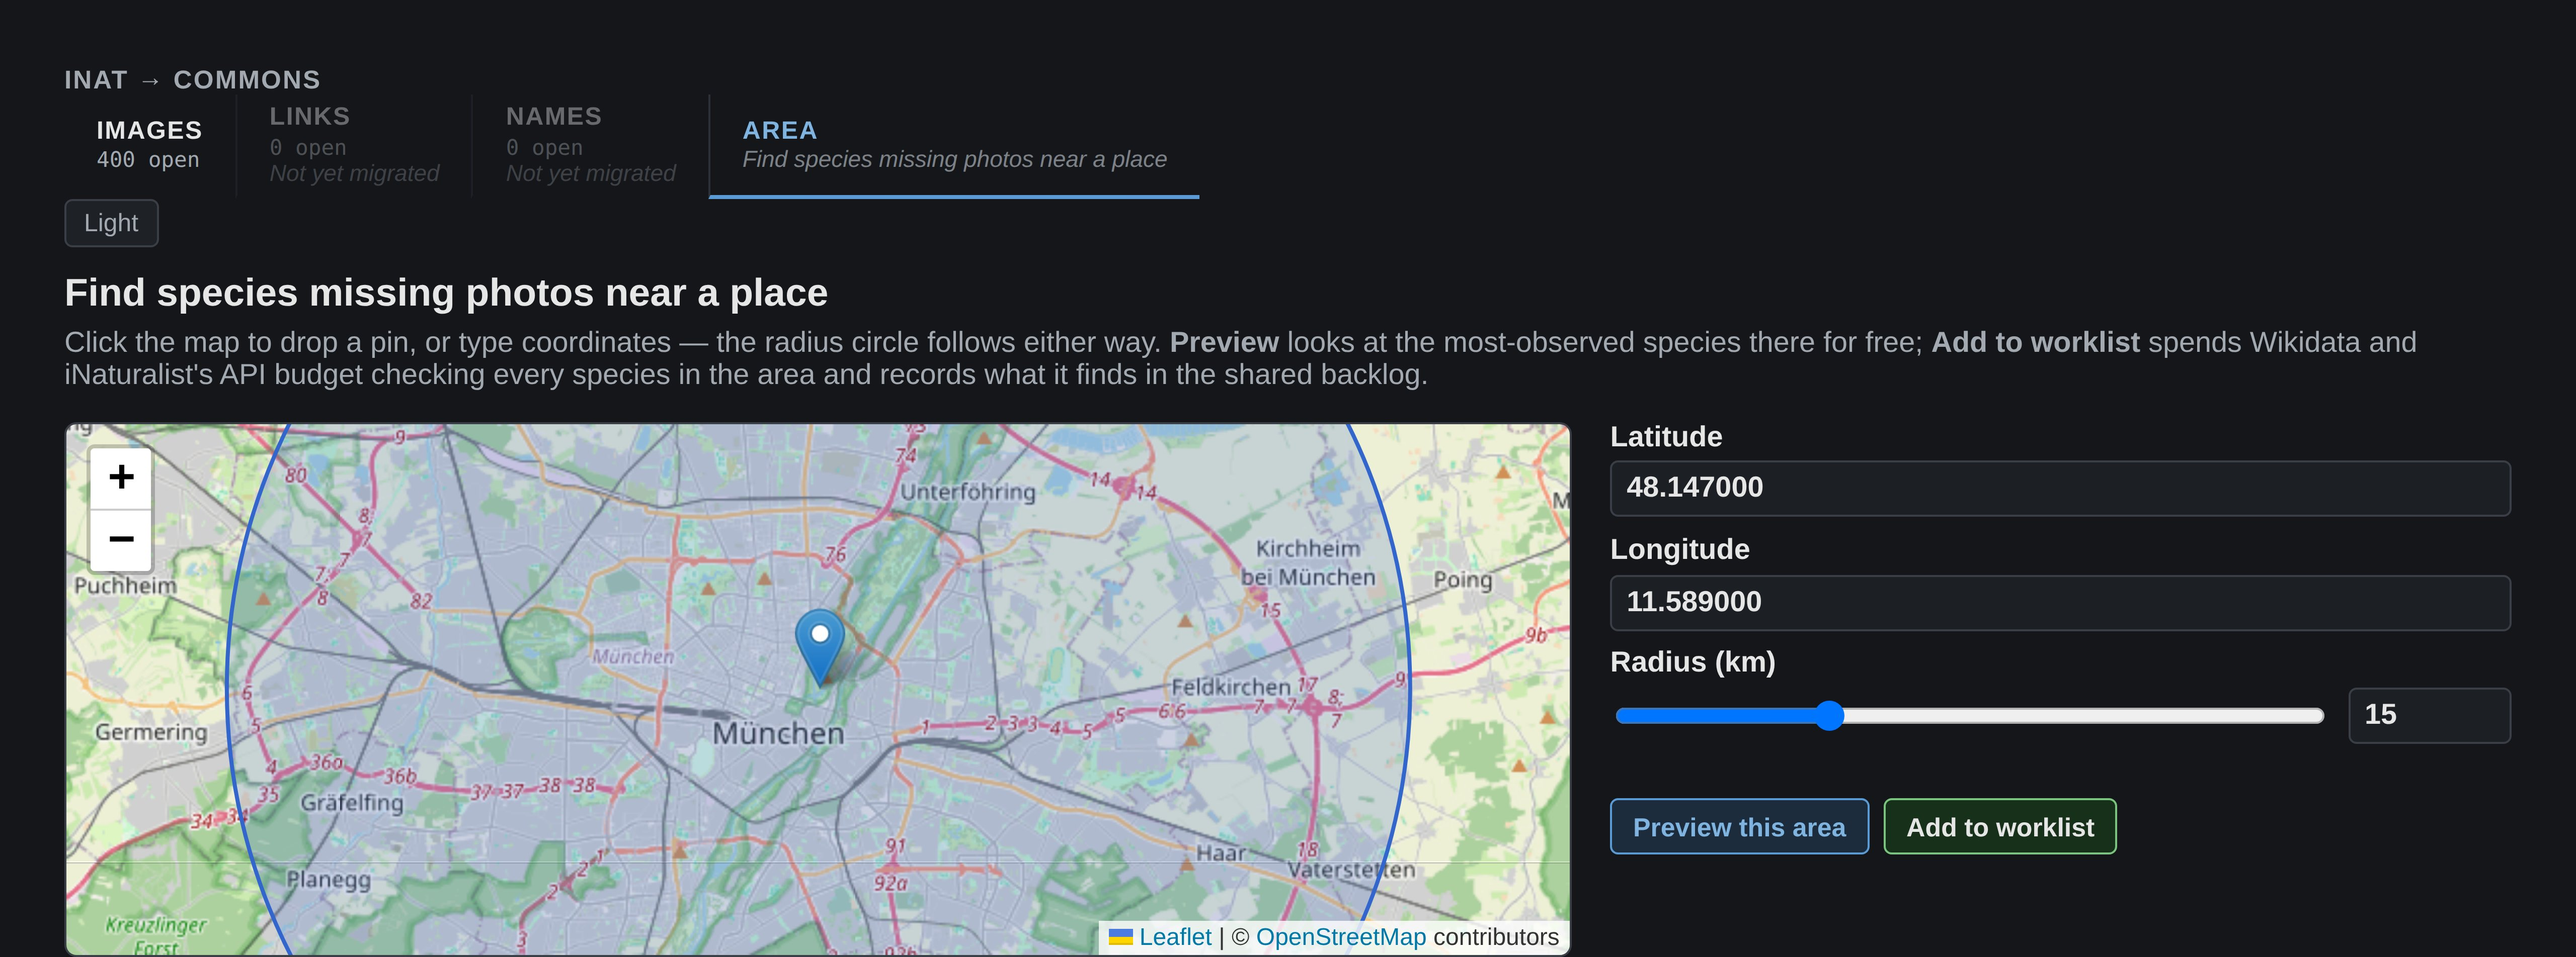
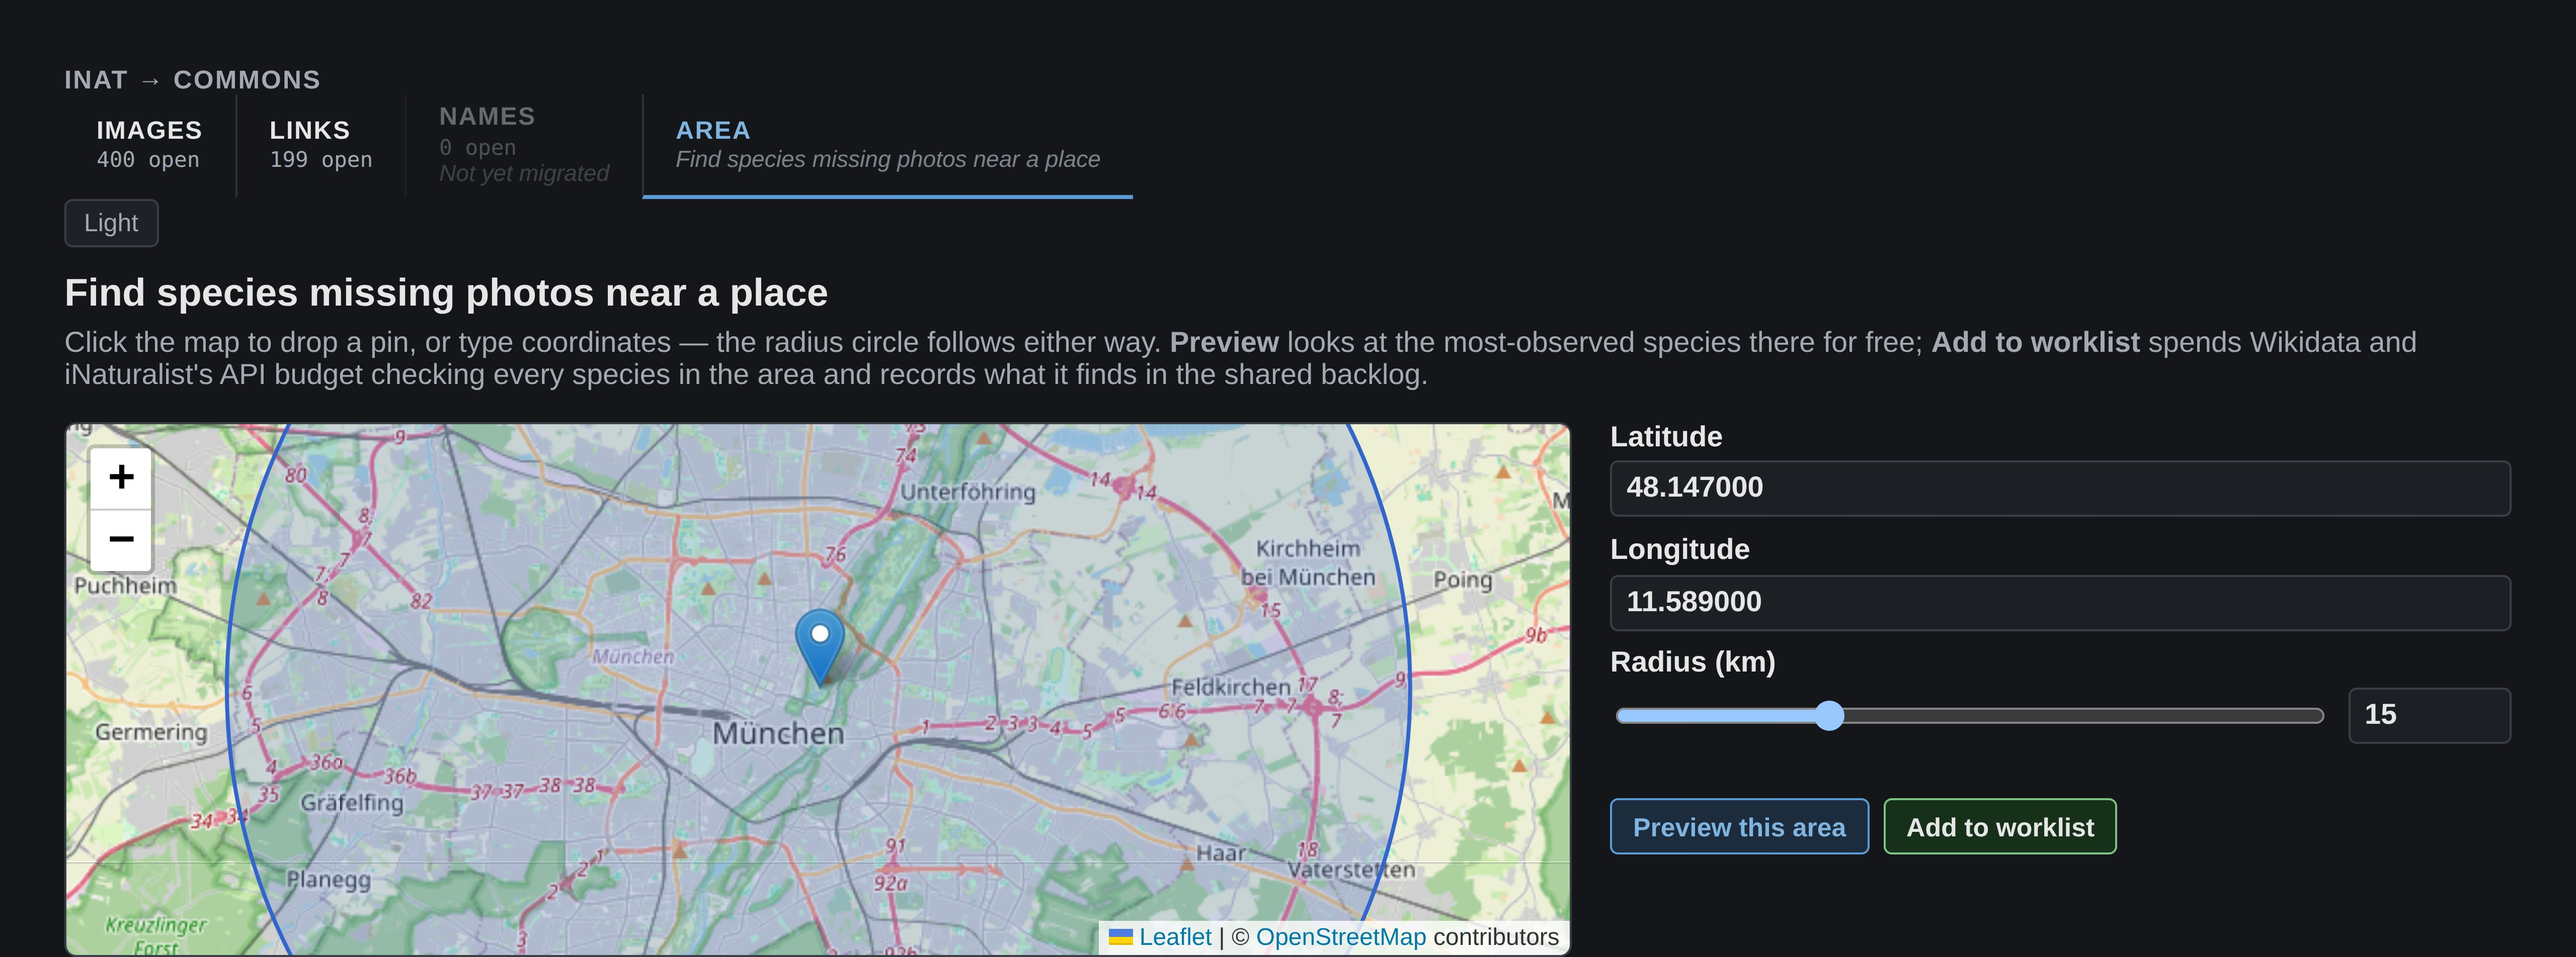
docs: regenerate screenshots for links.html, add a links.png target
tools/screenshots.mjs gains a links.png target and a `top` option
alongside the existing `crop` (bottom): the review section sits below
however many worklist rows the real backlog has, and the worklist half
already looks like worklist.png's, so the shot skips straight to what's
new rather than capturing every row above it. Needed captureBeyondViewport
on the screenshot call, since content below the emulated viewport isn't
laid out for capture without it.

Ran `node checkLinks.js --limit 200` for real against the production
data/findings.db first (with Livia's go-ahead) — the feature's first real
use, and what gives links.png genuine content: 199 open, 1 ambiguous
(Grania, an annelid genus vs. a red algae genus sharing the name), 0
conflicts. worklist.png/search.png/area.jpg/gallery.jpg regenerated too,
now showing the Links nav tile's real open count.

Changed region(s): [[0.0938, 0.093, 0.4688, 0.2169], [0.625, 0.7127, 0.9062, 0.7747]]

diff --git a/docs/screenshots/README.md b/docs/screenshots/README.md
@@ -14,6 +14,7 @@ never write to the real backlog.
 | File | Page |
 |---|---|
 | `worklist.png` | `web/index.html` — the backlog table and the QuickStatements panel |
+| `links.png` | `web/links.html` — the ambiguous/conflict review section (the worklist half looks like `worklist.png`'s, so the shot skips straight to what's new) |
 | `search.png` | `web/search.html` — clade search, scoped to Orchidaceae |
 | `area.jpg` | `web/area.html` — the map picker, scoped to 15km around Munich |
 | `gallery.jpg` | `web/taxon.html` — one taxon's iNaturalist photos |
